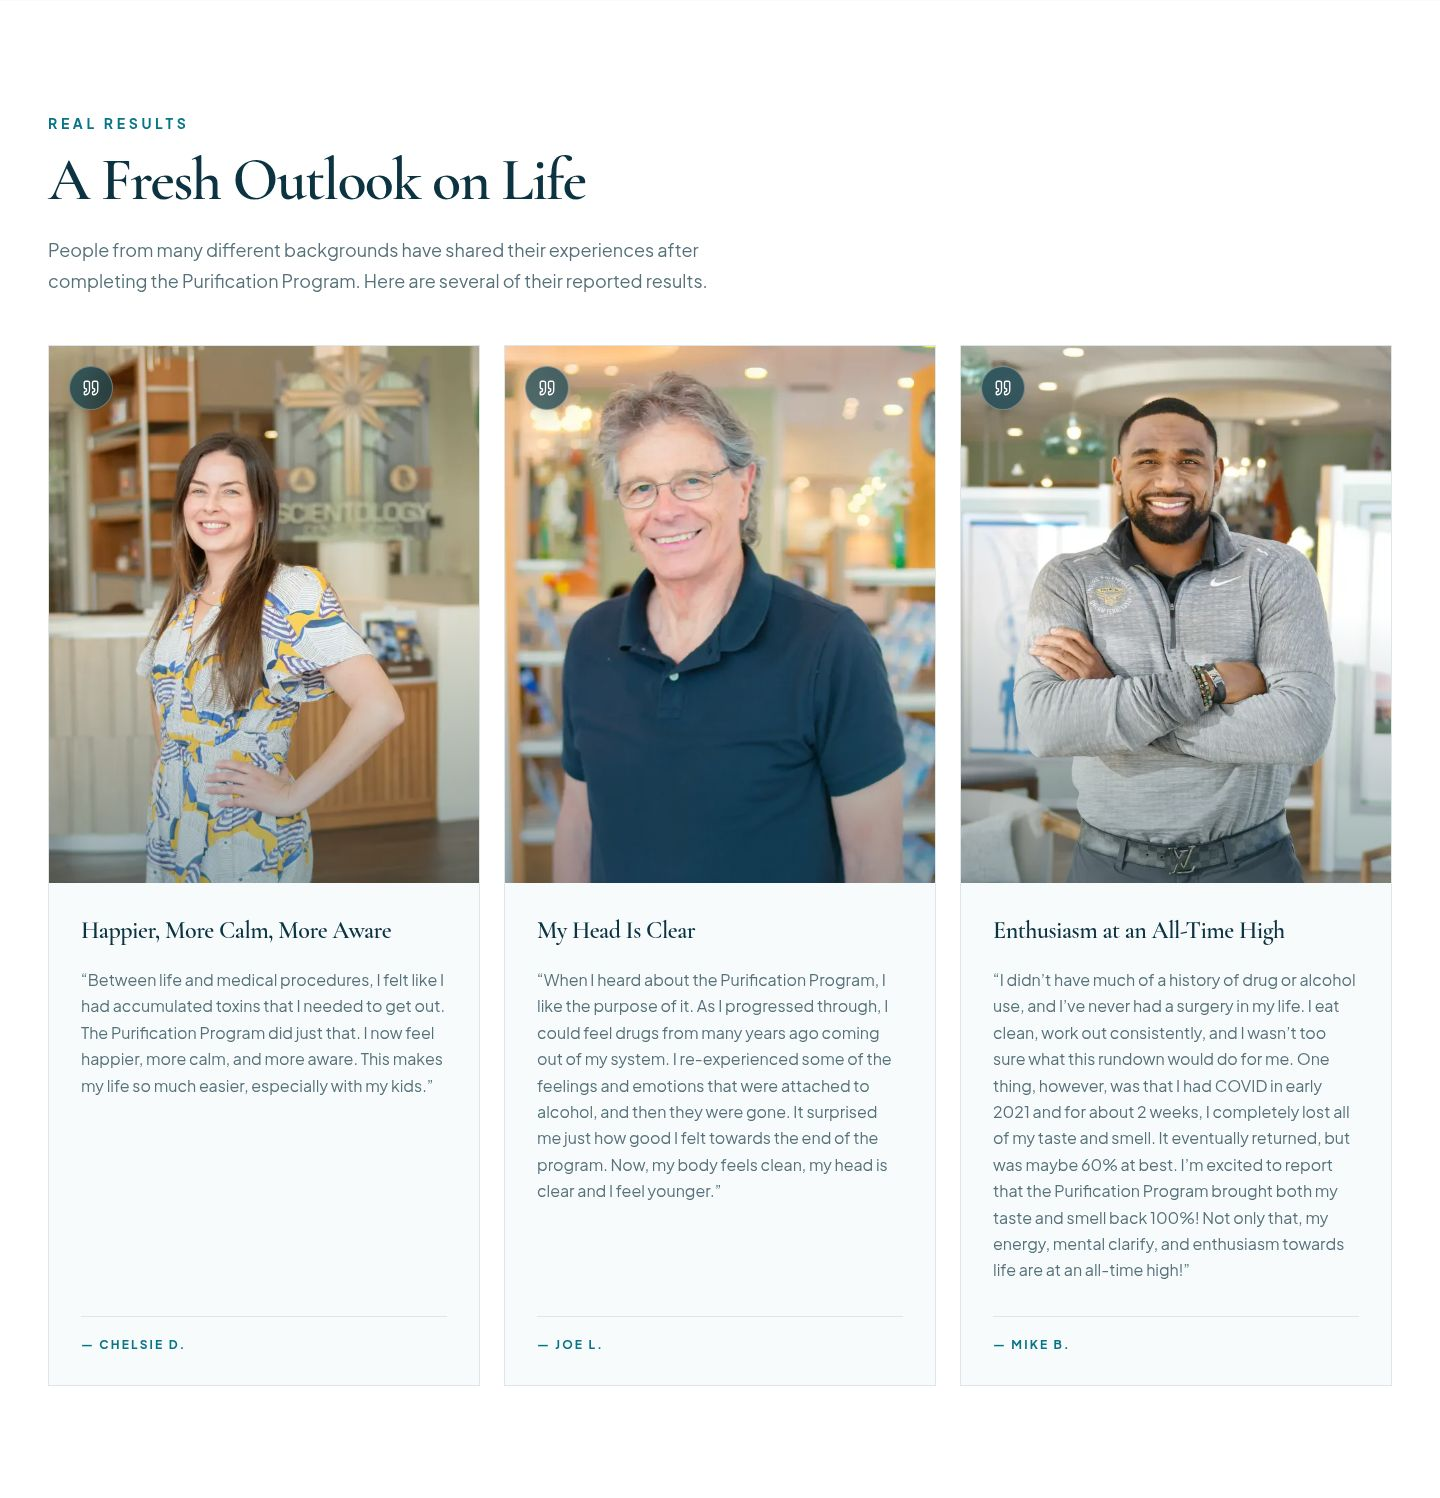
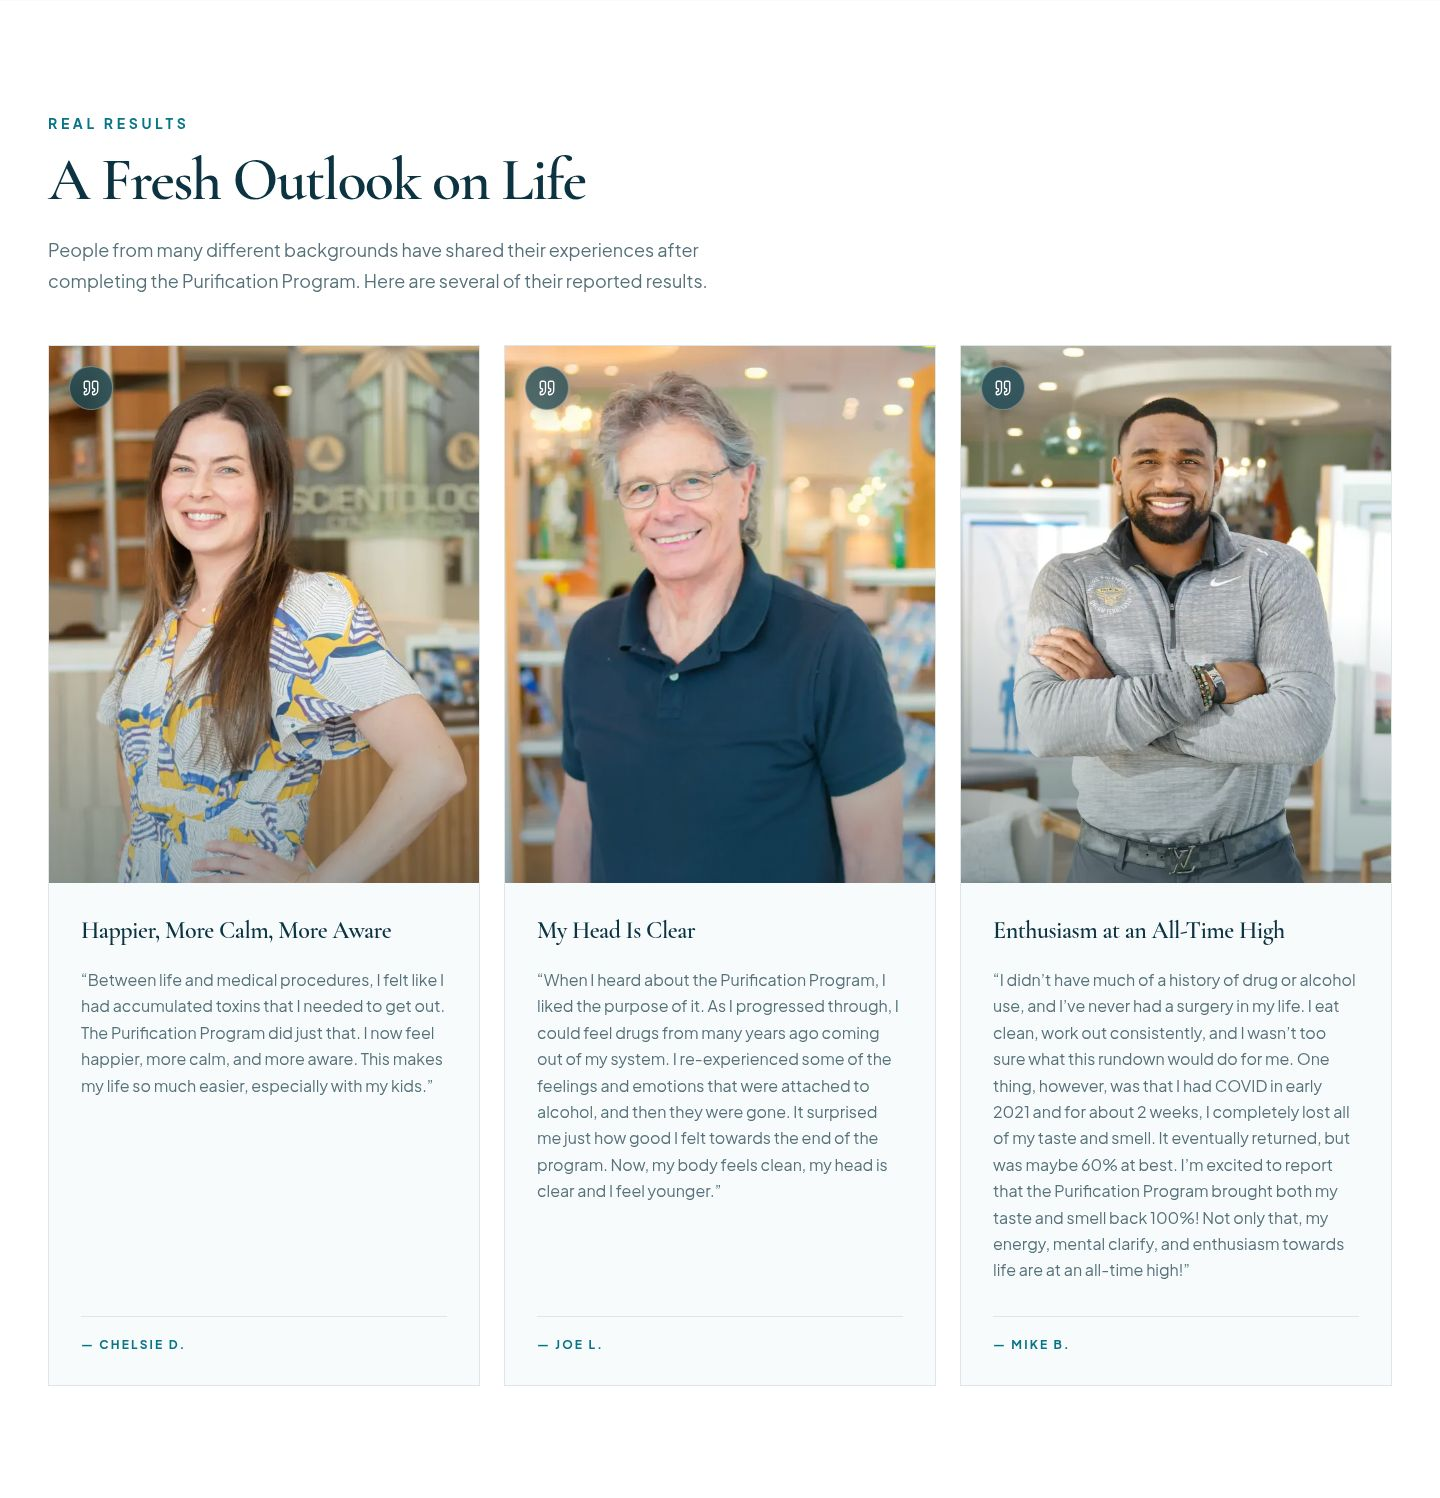
Tighten Chelsie portrait crop and correct Joe quote typo

Changed region(s): [[0.0312, 0.215, 0.3438, 0.6142], [0.4062, 0.6449, 0.5938, 0.6756]]

diff --git a/components/home/ResultsPreview.tsx b/components/home/ResultsPreview.tsx
@@ -6,13 +6,13 @@ const stories = [
     title: "Happier, More Calm, More Aware",
     text: "Between life and medical procedures, I felt like I had accumulated toxins that I needed to get out. The Purification Program did just that. I now feel happier, more calm, and more aware. This makes my life so much easier, especially with my kids.",
     attribution: "Chelsie D.",
-    image: "/images/results/chelsie-d.webp",
+    image: "/images/results/chelsie-d-close.webp",
     imageAlt: "Portrait of Chelsie D.",
     position: "object-center",
   },
   {
     title: "My Head Is Clear",
-    text: "When I heard about the Purification Program, I like the purpose of it. As I progressed through, I could feel drugs from many years ago coming out of my system. I re-experienced some of the feelings and emotions that were attached to alcohol, and then they were gone. It surprised me just how good I felt towards the end of the program. Now, my body feels clean, my head is clear and I feel younger.",
+    text: "When I heard about the Purification Program, I liked the purpose of it. As I progressed through, I could feel drugs from many years ago coming out of my system. I re-experienced some of the feelings and emotions that were attached to alcohol, and then they were gone. It surprised me just how good I felt towards the end of the program. Now, my body feels clean, my head is clear and I feel younger.",
     attribution: "Joe L.",
     image: "/images/results/joe-l.webp",
     imageAlt: "Portrait of Joe L.",
